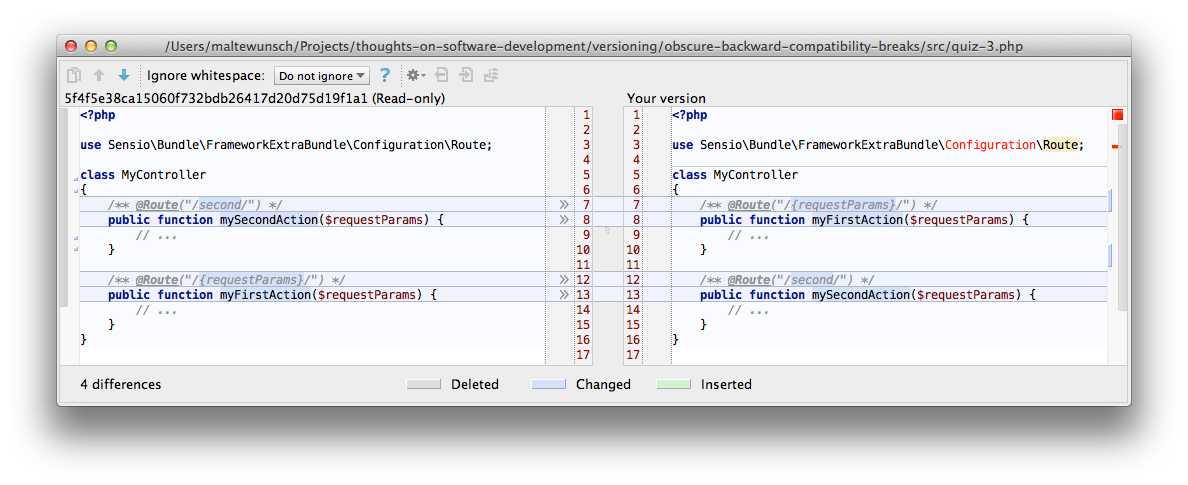
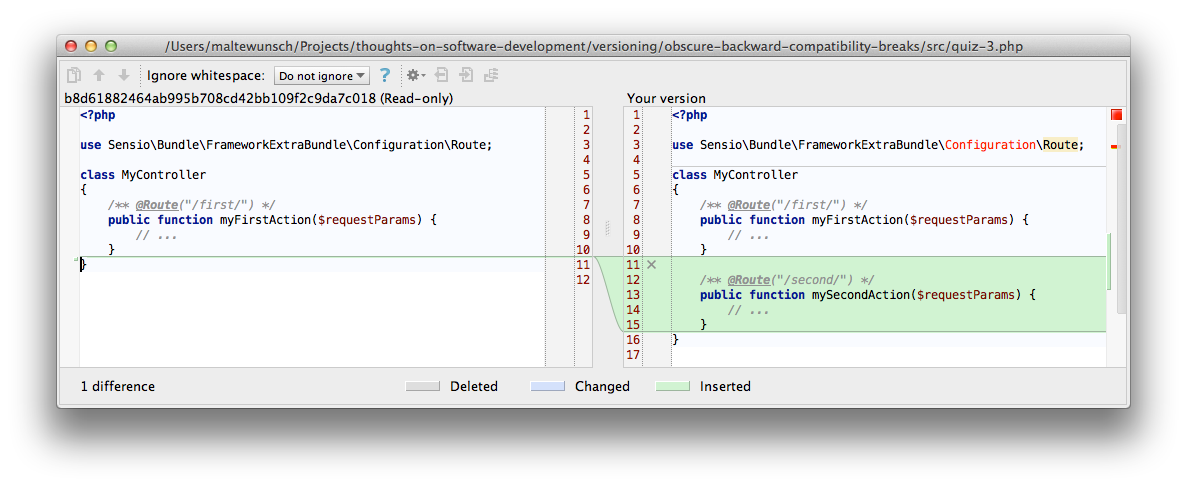
less silly idea for a potential bc break - after adding new method, incl. diff

diff --git a/versioning/obscure-backward-compatibility-breaks/src/quiz-3.php b/versioning/obscure-backward-compatibility-breaks/src/quiz-3.php
@@ -8,4 +8,9 @@ class MyController
     public function myFirstAction($requestParams) {
         // ...
     }
+
+    /** @Route("/second/") */
+    public function mySecondAction($requestParams) {
+        // ...
+    }
 }
